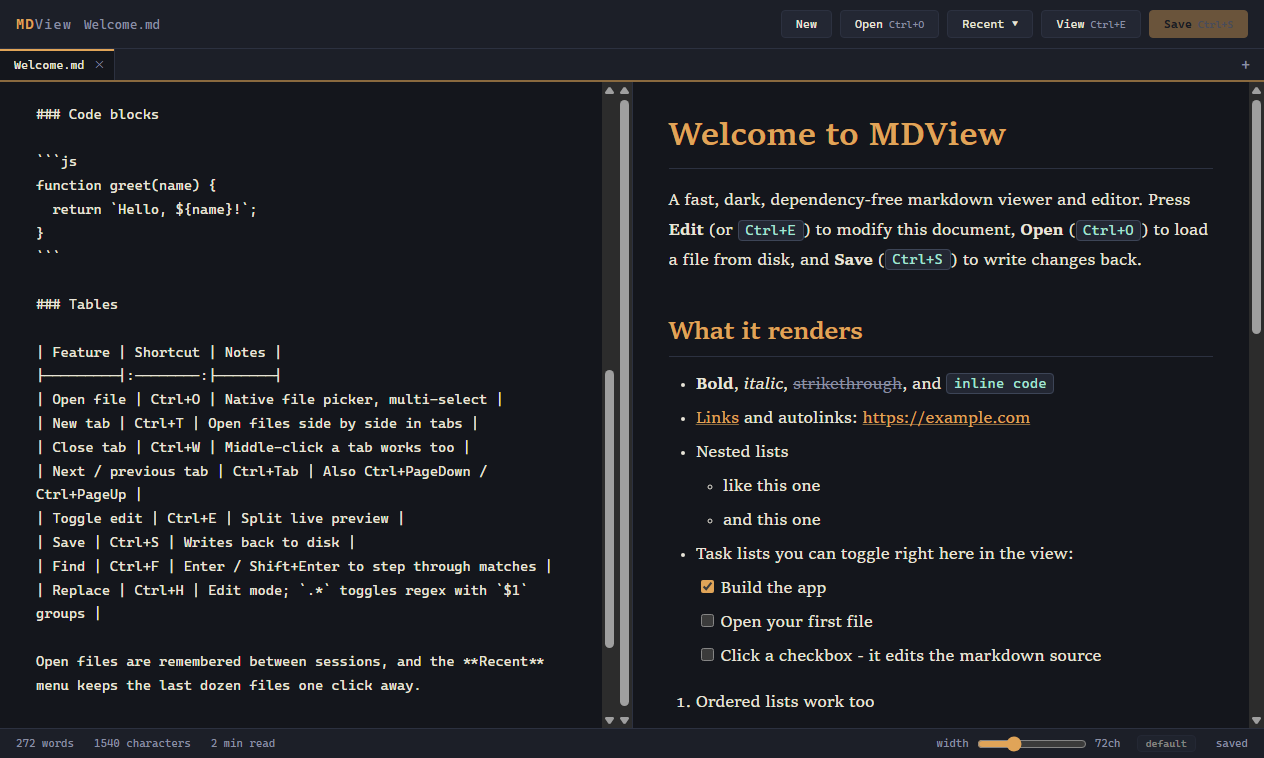
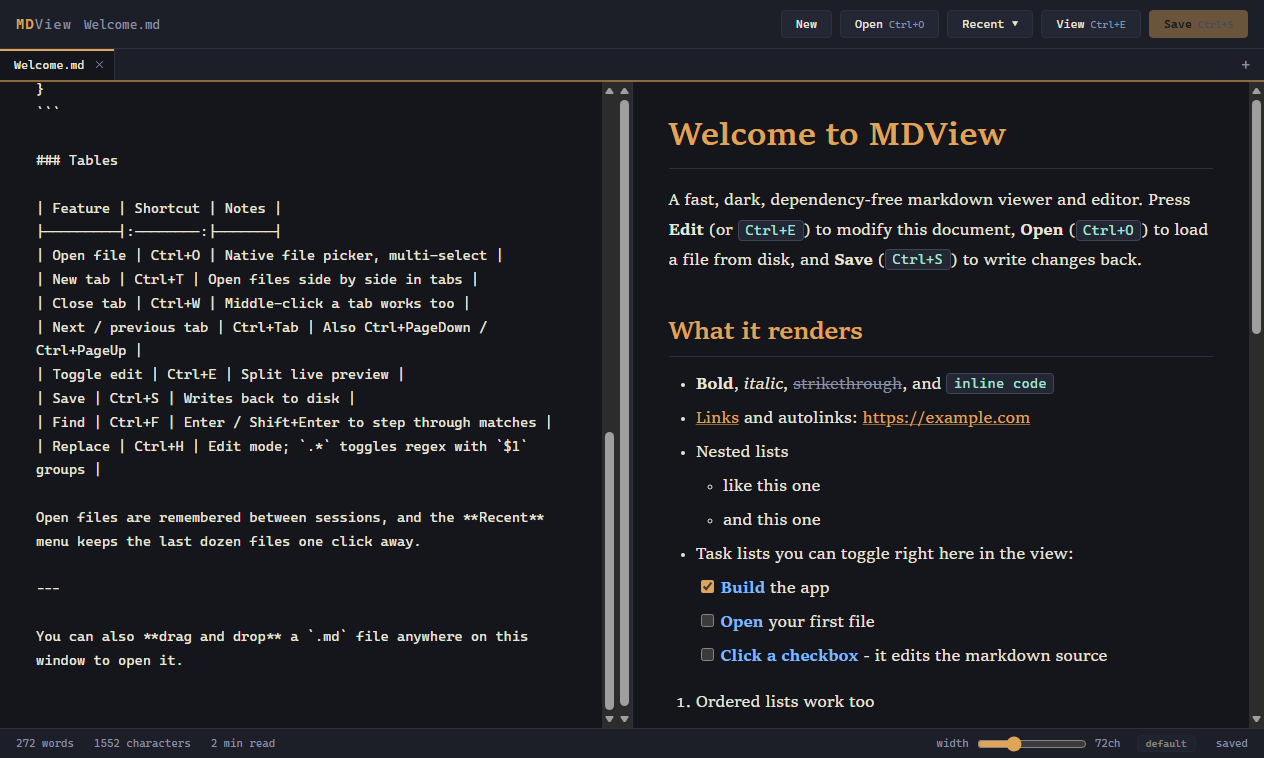
Welcome doc: bold key words in the checklist; refresh screenshots

diff --git a/app/index.html b/app/index.html
@@ -796,9 +796,9 @@ A fast, dark, dependency-free markdown viewer and editor. Press **Edit** (or \`C
   - like this one
   - and this one
 - Task lists you can toggle right here in the view:
-  - [x] Build the app
-  - [ ] Open your first file
-  - [ ] Click a checkbox - it edits the markdown source
+  - [x] **Build** the app
+  - [ ] **Open** your first file
+  - [ ] **Click a checkbox** - it edits the markdown source
 
 1. Ordered lists work too
 2. With proper numbering

diff --git a/MDView.html b/MDView.html
@@ -650,8 +650,8 @@ A fast, dependency-free markdown viewer and editor. Press **Edit** (or \`Ctrl+E\
   - like this one
   - and this one
 - Task lists:
-  - [x] Build the app
-  - [ ] Open your first file
+  - [x] **Build** the app
+  - [ ] **Open** your first file
 
 1. Ordered lists work too
 2. With proper numbering
